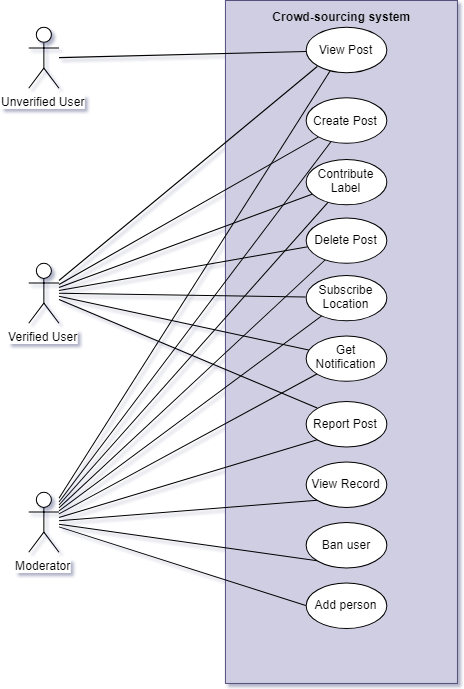
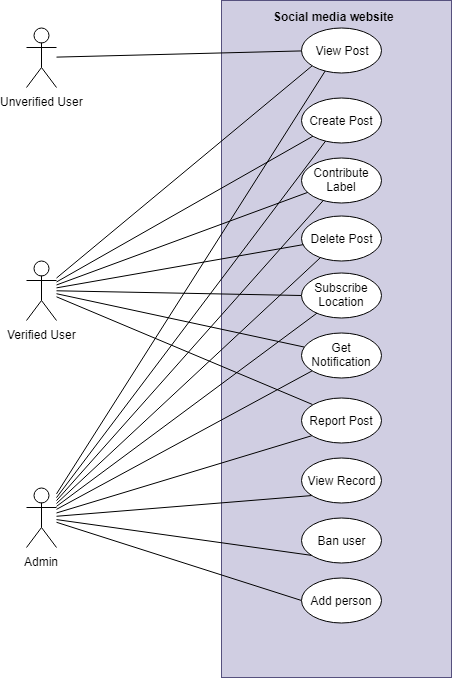
chap4 front end

diff --git a/Chapter4.tex b/Chapter4.tex
@@ -1,48 +1,10 @@
 \chapter{SYSTEM DESIGN AND IMPLEMENTATION}
 
-This chapter describes the implementation of the system which consists of two subsystems: A social media website and an analysis server. In \textit{Requirement analysis and System overview} subsection, everything is briefly described as a whole. In three last sections, structure and details of two subsystems and the database are defined more comprehensively.
+This chapter describes the implementation of the system which consists of: A social media website, an image processing module, a video processing module, a database. In \textit{System overview and requirement analysis} section, everything is briefly described as a whole. In other sections, structure and details of each component are defined more comprehensively.
+\section{System overview and requirement analysis}
 
-\section{Requirement specification}
-A requirements analysis is essential to any system. In this section, this thesis defines functional as well as non-function requirements for the system. Use cases and a system overview is also outlined in the following subsections.
-\subsection{Types of users}
-As with any sophisticated system, the proposed system has many types of user. Those type of users are:
-
-\begin{itemize}
-    \item \textbf{Guest users}: Users that have not verify their account by authentication methods.
-    \item \textbf{Verified users}: Users that are verified with the system by authentication methods.
-    \item \textbf{Moderators}: Supervisors of the system. This title is given to people who are responsible for managing the system.
-\end{itemize}
-\subsection{Functional Requirements}
-As stated in \ref{chap:solution}, this project would build a social media website for security. Such a website must have functions of a typical social media as well as additional functions for security. Those functions would include:
-\begin{itemize}	
-    \item Verified users and Guest users can view posts by other users. 
-    \item Verified users could make posts with images or videos and includes location and time information in their posts. The website stores posts and image/videos in databases and analyze them through analyzing modules.
-    \item Verified users could contribute to the system by labeling videos. Labels of videos are stored in the database and are used to train video classification modules.
-    \item Verified users could subscribe to a location to get notifications about the suspicious videos from that location.
-    \item When suspicious videos are detected, notifications are sent to Users subscribed to nearby locations.
-    \item The system can recognize faces from images and logs their occurrences to the database.
-\end{itemize}
-
-
-\subsection{Non-functional Requirement}
-In the scope of a thesis, the system has to acquire these requirements to perform processes that are stable and efficient for the user:
-\begin{itemize}
-	\item Reliability: The System is able to have 90\% uptime of Internet connection. It should have OAuth services via Google/Facebook(account kit) for authentication.
-	\item Scalability: The website is able to handle many concurrent connections and manage a large amount of posts and store into NoSQL database .
-	\item Usability: The website uses modern UI developed in HTML5. The user can use that UI easily to navigate between each page. It also has a fresh and well-designed interface for user to interact with
-	
-\end{itemize} 
-\subsection{Use Cases}
-\begin{center}
-	\begin{figure}[H]
-		\centering
-		\includegraphics[width=0.75\columnwidth]{images/chap4/usecase.png}
-		\caption{Use case diagram}
-		\label{chap4:user_case_diagram}
-	\end{figure}
-\end{center}
 \subsection{System overview}
-Figure \ref{chap3:system_overview_basic} shows a concise overview of how the system operates. Users interact with the website through front-end. The input of users can come in the form of images, videos or label contribution. Back-end receives input and stores in the database. Concurrently, inputs are sent to analysis server . Outputs from analysis server are sent back to back-end and then stored in database. The back-end is also responsible for obtaining appropriate contents from the database to display to users through front-end.
+Figure \ref{chap3:system_overview_basic} shows a concise overview of how the system operates. Users interact with the website through front-end. The input of users can come in the form of images, videos or label contribution. Back-end receives input and stores in the database. Concurrently, inputs are sent to image processing module/video processing module . Outputs from analysis server are sent back to back-end and then stored in database. The back-end is also responsible for obtaining appropriate contents from the database to display to users through front-end.
 
 \begin{center}
     \begin{figure}[H]
@@ -52,6 +14,59 @@ Figure \ref{chap3:system_overview_basic} shows a concise overview of how the sys
     \label{chap3:system_overview_basic}
     \end{figure}
 \end{center}
+\subsection{Requirement analysis}
+A requirements analysis is essential to any system. In this section, this thesis defines functional as well as non-function requirements for the system. Use cases and a system overview is also outlined in the following subsections.
+\subsubsection{Types of users}
+As with any sophisticated system, the proposed system has many types of user. Those type of users are:
+
+\begin{itemize}
+    \item \textbf{Guest users}: Users that have not verify their account by authentication methods.
+    \item \textbf{Verified users}: Users that are verified with the system by authentication methods.
+    \item \textbf{Admins}: Supervisors of the system. This title is given to people who are responsible for managing the system.
+\end{itemize}
+\subsubsection{Functional Requirements}
+As stated in \ref{chap:solution}, this project would build a social media website for security. Such a website must have functions of a typical social media as well as additional functions for security. Those functions would include:
+\begin{itemize}	
+    \item Verified users and Guest users can view posts by other users. 
+    \item Verified users could create posts with images or videos and includes location and time information in their posts. The website stores posts and image/videos in databases and analyze them through analyzing modules.
+    \item Verified users could contribute to the system by labeling videos. Labels of videos are stored in the database and are used to train video classification modules.
+    \item Verified users could subscribe to a location to get notifications about the suspicious videos from that location.
+    \item When suspicious videos are detected, notifications are sent to Users subscribed to nearby locations.
+    \item The system can recognize faces from images and logs their occurrences to the database.
+\end{itemize}
+
+
+\subsubsection{Non-functional Requirement}
+In the scope of a thesis, the system has to acquire these requirements to perform processes that are stable and efficient for the user:
+\begin{itemize}
+	\item Reliability: The System is able to have 90\% uptime of Internet connection. It should have OAuth services via Google/Facebook(account kit) for authentication.
+	\item Scalability: The website is able to handle many concurrent connections and manage a large amount of posts and store into NoSQL database .
+	\item Usability: The website uses modern UI developed in HTML5. The user can use that UI easily to navigate between each page. It also has a fresh and well-designed interface for user to interact with
+\end{itemize} 
+\subsubsection{Use Cases}
+\begin{center}
+	\begin{figure}[H]
+		\centering
+		\includegraphics[width=0.75\columnwidth]{images/chap4/usecase.png}
+		\caption{Use case diagram}
+		\label{chap4:user_case_diagram}
+	\end{figure}
+\end{center}
+
+\subsubsection{Main function of the system: Notify users about suspicious activity using data from posts.}
+
+\begin{center}
+	\begin{figure}[H]
+		\centering
+		\includegraphics[width=0.7\columnwidth]{images/chap4/createpostflowchart.png}
+		\caption{Create post flowchart.}
+	\end{figure}
+\end{center}
+
+Specifically, users create post with image/video to provide data to back-end. Post also contains other information such as author, location, time. Back-end save all information from post and then deliver data to relevant module to analyze. When suspicious activity detected after analyzing, back-end notify users who subscribe to the exact location and users who subscribe to locations that are in a diameter of 1 kilometer from that location.
+
+\textbf{Label video}
+
 \section{Database}
 The project database divides into two different parts: \textbf{Cloud storage} for visual data such as image/video and a \textbf{NoSQL database} for other information. The primary target is to reduce website loading time. Let take an example, if files are stored directly on the back-end server. When many users request a file simultaneously, the server with limited bandwidth will cause delay. “53\% of mobile site visitors leave a page that takes longer than three seconds to load” – \href{https://think.storage.googleapis.com/docs/mobile-page-speed-new-industry-benchmarks.pdf}{Google}. If these files stored on cloud storage, the client will be served by the cloud storage provider, which has higher availability.
 \subsection{Cloud storage}
@@ -192,8 +207,95 @@ Location.subscribers.{[}0{]} & User.\_id    \\ \hline
 The element of the field \textit{subscribers}(array) of collection \textbf{Location} references field \textit{\_id} of collection \textbf{User}.
 \section{Social media website}
 \subsection{Front-end}
+\subsubsection{Overview}
+Figure \ref{chap4:sitemap} presents the overview the website.
+\begin{center}
+    \begin{figure}[H]
+    \centering
+    \includegraphics[width=1.5\columnwidth,height=7cm,angle=270]{images/chap4/sitemap.png}
+    \caption{Sitemap}
+    \label{chap4:sitemap}
+    \end{figure}
+\end{center}
+\subsubsection{Views}
+\textbf{Header}
+\\
+Header is a navigation bar which is displayed in every views. Navigation bar only contains "About us", "Sign in", "Sign up" buttons by default. Logging in add additional buttons such as "Create post", "Label videos",  "Profile", "Log out" to the bar.
+\begin{center}
+    \begin{figure}[H]
+    \centering
+    \includegraphics[width=1\columnwidth]{images/chap4/header_not_login.png}
+    \caption{Default navigation bar.}
+    \end{figure}
+\end{center}
+
+\begin{center}
+    \begin{figure}[H]
+    \centering
+    \includegraphics[width=1\columnwidth]{images/chap4/header.png}
+    \caption{Navigation bar when logged in.}
+    \end{figure}
+\end{center}
+
+\textbf{Homepage}
+\begin{center}
+    \begin{figure}[H]
+    \centering
+    \includegraphics[width=1\columnwidth]{images/chap4/homepage.png}
+    \end{figure}
+\end{center}
+
+News feed which are posts from everyone is visible in the homepage. A post is displayed with title, author, time, location and visual data. Additionally, there is a sidebar with popular locations. Clicking a location from the sidebar leads to another view that show only posts from that location. Blank space is reserved for advertising to create income in the future.
+
+\textbf{Sign in}
+\begin{center}
+    \begin{figure}[H]
+    \centering
+    \includegraphics[width=1\columnwidth]{images/chap4/login_form.png}
+    \end{figure}
+\end{center}
+
+\textbf{Sign up}
+\begin{center}
+    \begin{figure}[H]
+    \centering
+    \includegraphics[width=1\columnwidth]{images/chap4/signup_form.png}
+    \end{figure}
+\end{center}
+
+\textbf{Label video}
+\begin{center}
+    \begin{figure}[H]
+    \centering
+    \includegraphics[width=1\columnwidth]{images/chap4/label_video.png}
+    \end{figure}
+\end{center}
+
+\textbf{Create post}
+\begin{center}
+    \begin{figure}[H]
+    \centering
+    \includegraphics[width=1\columnwidth]{images/chap4/create_post.png}
+    \end{figure}
+\end{center}
+
+\textbf{Profile}
+\begin{center}
+    \begin{figure}[H]
+    \centering
+    \includegraphics[width=1\columnwidth]{images/chap4/profile.png}
+    \end{figure}
+\end{center}
+
+\textbf{Administration}
+\begin{center}
+    \begin{figure}[H]
+    \centering
+    \includegraphics[width=1\columnwidth]{images/chap4/admin.png}
+    \end{figure}
+\end{center}
 \subsection{Back-end}
-\section{Analysis server}
+\section{Visual data analysis modules}
 The project requires two systems for analysis: A face recognition system and a video classifier system. The facial recognition system takes pictures of human faces as input and returns their identification. The video classifier system analyzes videos to find out actions in them. The remaining of this section describes in detail about the two analysis system.
 \subsection{Face recognition module}
 \subsection{Video classifier module}

diff --git a/Thesis.tex b/Thesis.tex
@@ -31,13 +31,13 @@ Ho Chi Minh City, December 24th 2018
 \cleardoublepage
 
 \chapter*{ACKNOWLEDGEMENTS}
-Firstly, I would like to express my sincere gratitude to my advisor \textbf{Assoc. Prof, PhD Dang Tran Khanh} for the continuous support of our thesis, for his patience, motivation, and immense knowledge. His guidance helped us in all the time of research and writing of this thesis. We could not have imagined having a better advisor and mentor for our research.
+Firstly, we would like to express my sincere gratitude to my advisor \textbf{Assoc. Prof, PhD Dang Tran Khanh} for the continuous support of our thesis, for his patience, motivation, and immense knowledge. His guidance helped us in all the time of research and writing of this thesis. We could not have imagined having a better advisor and mentor for our research.
 \\
 \\
-Besides my advisor, I would like to thank all of our lecturers, mentors, who has been dedicated to instruct us in our study since we attended at our university
+Besides my advisor, we would like to thank all of our lecturers, mentors, who has been dedicated to instruct us in our study since we attended at our university
 \\
 \\
-Finally, We must express my our profound gratitude to authors of published research used in our thesis. This accomplishment would not have been possible without them.
+Finally, we must express our profound gratitude to authors of published research used in our thesis. This accomplishment would not have been possible without them.
 
 \begin{flushright}
 Ho Chi Minh City, December 24th 2018 \\
@@ -131,7 +131,6 @@ Vũ Minh Trí, Võ Tuấn Kiệt, Phạm Hồng Thái, Đinh Duy Kha, Nguyễn K
 
 \cleardoublepage
 
-\include{DivisionWorking}
 \end{document}
 %\appendix
 %\include{Appendix1}

diff --git a/Chapter6.tex b/Chapter6.tex
@@ -1,9 +1,4 @@
 \chapter{CONCLUSION AND FURTHER DEVELOPMENT}
-\label{chap:relatedwork}
-
-In Chapter 6, we describe a few recent works relating to river runoff prediction and boiler efficiency optimization.
-
-\minitoc
 
 \section{Accomplishment}
 \section{Limitation}
